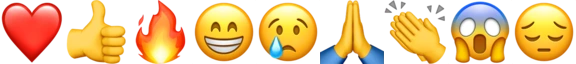
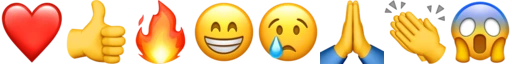
fix(download): альбом без оправы и без двойного приезда, реакция — 😢
Реакция сценария сменилась на 😢. Прежний смайл в строке быстрых реакций
не стоял — она повторяет DEFAULT_QUICK_REACTIONS приложения, — и момент
«пользователь выбирает смайл» не подсвечивался ни на одном кадре. Лента
эмодзи схлопнулась с девяти глифов до восьми: список дедуплицируется
и в EMOJI_STRIP, и в генераторе.

Альбом приезжал дважды: сначала пустой пузырь с обрывками плиток, потом
настоящий. Ширины не было объявлено нигде во всей цепочке — колонка
сжимается по содержимому, пузырь и раскладка стояли на width: 100%, —
и ширину задавал max-content самих img: ноль до загрузки, 600px после.
В приложении этого не бывает, потому что .grid несёт явную width. Реплика
повторила ту же формулу своими токенами, доля вынесена в токен. Снимки
заодно декодируются на предзагрузке, а не в кадре появления.

У медиа без подписи пузырь стал прозрачным, как .bubble.bubbleBare
в приложении: вокруг альбома была видна рамка входящего пузыря, а внизу
слева торчал его белый угол — 7px скругления пузыря против 16px
у раскладки.

diff --git a/client/src/pages/download/demo/scenarios/everyday.test.ts b/client/src/pages/download/demo/scenarios/everyday.test.ts
@@ -9,6 +9,8 @@ import {
   DIALOG_WITH_PUNCHLINE,
   DIALOG_WITH_VOICE,
   PRESS,
+  EMOJI_STRIP,
+  QUICK_REACTIONS,
   READ_AT_REST,
   READ_WITH_OWN_REPLY,
   REACTION_EMOJI,
@@ -85,6 +87,12 @@ describe('сценарий А', () => {
   it('реакция прилетает после того, как меню закрылось', () => {
     expect(at(sceneStart(8)).reactionMessageId).toBeNull();
     expect(at(sceneStart(9)).reactionMessageId).toBe('m5');
+  });
+
+  it('выбранный смайл есть в строке быстрых реакций, иначе подсвечивать нечего', () => {
+    expect(QUICK_REACTIONS).toContain(REACTION_EMOJI);
+    expect(EMOJI_STRIP).toContain(REACTION_EMOJI);
+    expect(new Set(EMOJI_STRIP).size).toBe(EMOJI_STRIP.length);
   });
 
   it('реакцию ставит пользователь: он держит пузырь, выбирает смайл, и чип появляется на нём', () => {

diff --git a/client/src/pages/download/demo/replica/phone/Bubble.module.css b/client/src/pages/download/demo/replica/phone/Bubble.module.css
@@ -78,8 +78,11 @@
   color: var(--text-on-out);
 }
 
-.bubbleMedia {
+.bubble.bubbleMedia {
   width: 100%;
+  border: none;
+  background: none;
+  box-shadow: none;
 }
 
 .textRow {
@@ -163,11 +166,15 @@
 .album {
   display: flex;
   overflow: hidden;
-  width: 100%;
+  width: min(
+    var(--replica-bubble-media-max-w),
+    calc(var(--replica-bubble-media-max-h) * var(--replica-album-ratio))
+  );
+  max-height: var(--replica-bubble-media-max-h);
   flex-direction: column;
   gap: 2px;
   border-radius: calc(var(--radius-bubble) - 4px);
-  aspect-ratio: 8 / 9;
+  aspect-ratio: var(--replica-album-ratio);
 }
 
 .albumLead {

diff --git a/client/src/pages/download/demo/PhoneDemo.tsx b/client/src/pages/download/demo/PhoneDemo.tsx
@@ -26,7 +26,11 @@ export function PhoneDemo() {
   }, []);
 
   useEffect(() => {
-    for (const photo of ALBUM_PHOTOS) new Image().src = photo.src;
+    for (const photo of ALBUM_PHOTOS) {
+      const image = new Image();
+      image.src = photo.src;
+      void image.decode().catch(() => undefined);
+    }
     new Image().src = EMOJI_STRIP_URL;
   }, []);
 

diff --git a/client/src/pages/download/demo/replica/phone/demoData.ts b/client/src/pages/download/demo/replica/phone/demoData.ts
@@ -370,7 +370,7 @@ export const VOICE_PEAKS = [
 
 export const QUICK_REACTIONS: string[] = replicaEmoji.quick;
 
-export const EMOJI_STRIP: string[] = [...QUICK_REACTIONS, REACTION_EMOJI];
+export const EMOJI_STRIP: string[] = [...new Set([...QUICK_REACTIONS, REACTION_EMOJI])];
 
 export const EMOJI_STRIP_URL = '/download/emoji.webp';
 

diff --git a/client/src/pages/download/tokens.download.css b/client/src/pages/download/tokens.download.css
@@ -232,6 +232,7 @@
 
   --replica-bubble-media-max-w: 322px;
   --replica-bubble-media-max-h: 460px;
+  --replica-album-ratio: 8 / 9;
 
   --replica-push-dur: 440ms;
   --replica-push-ease: cubic-bezier(0.22, 1, 0.36, 1);
